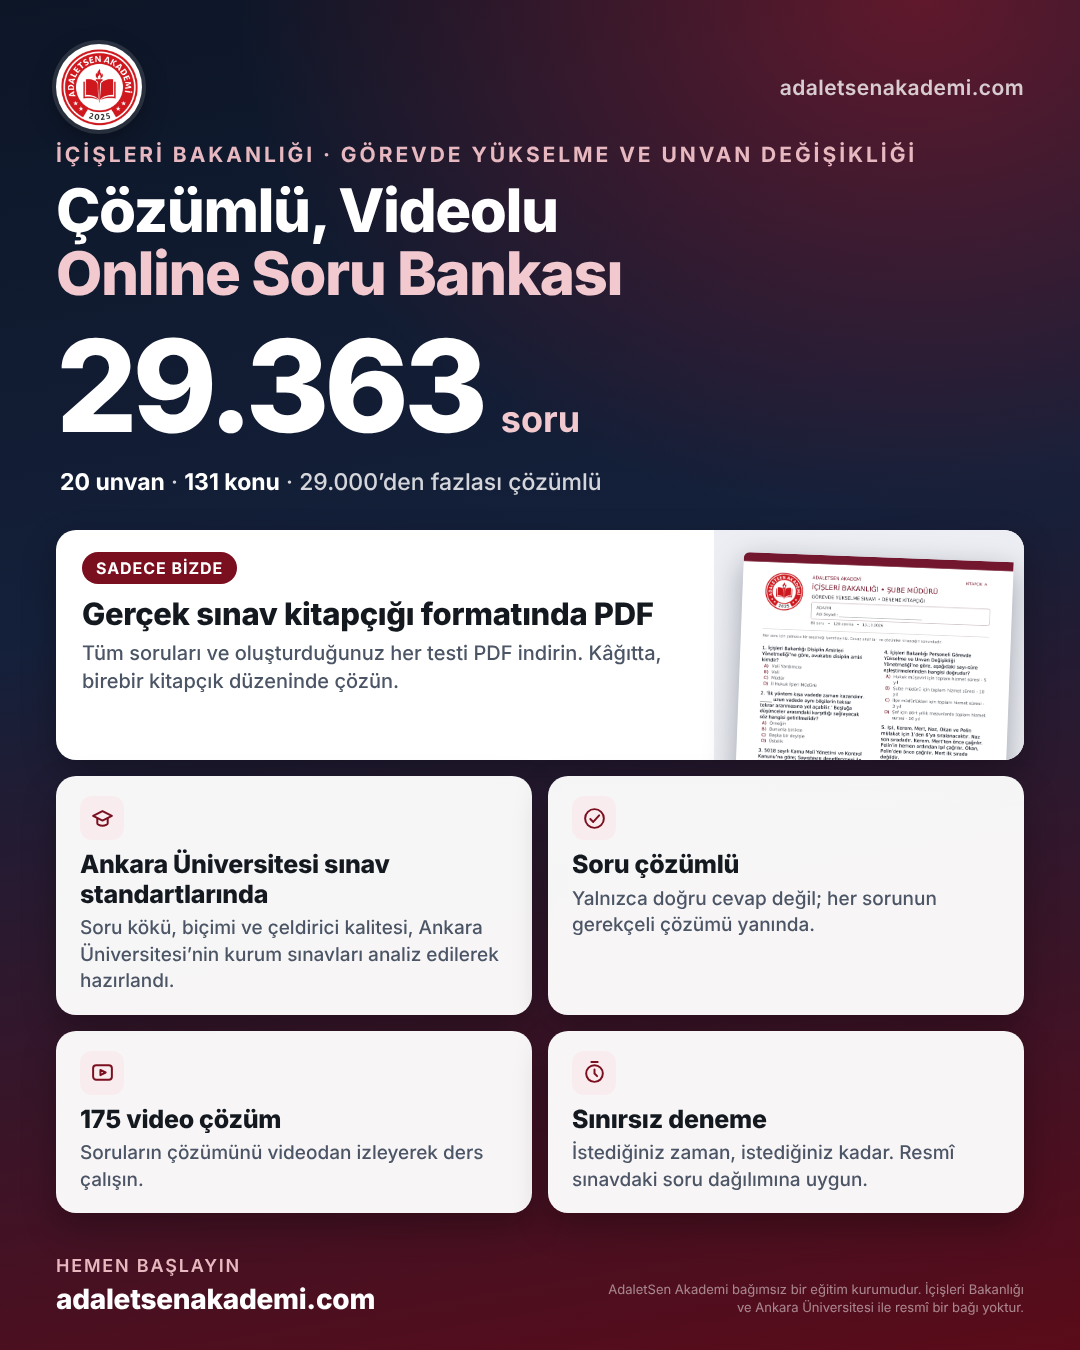
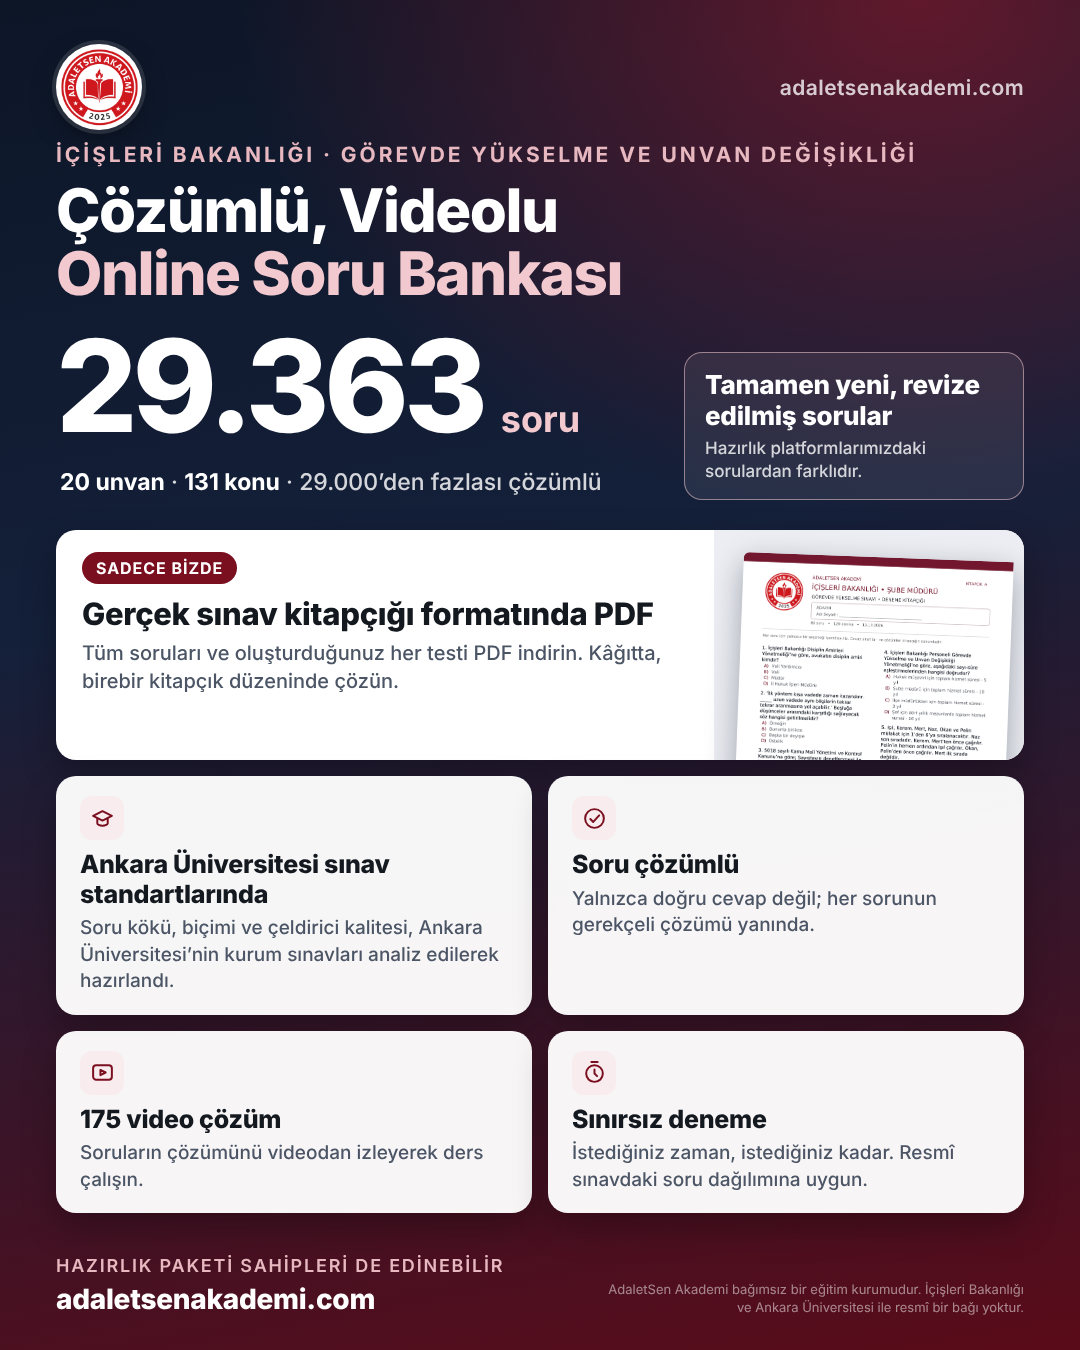
Kampanya görseli: yeni soru ve hazırlık paketi sahibi mesajı
Claude-Session: https://claude.ai/code/session_01Dii8fjHLuvXEyJZs8Lu8yp

Changed region(s): [[0.6417, 0.28, 0.9167, 0.3733], [0.0611, 0.9333, 0.4583, 0.9644]]

diff --git a/kampanya/gorsel.html b/kampanya/gorsel.html
@@ -16,6 +16,9 @@ h1 span{color:#f2c9cf}
 .big{position:absolute;left:56px;top:322px;display:flex;align-items:baseline;gap:18px}
 .big b{font-size:128px;line-height:1;font-weight:800;letter-spacing:-.04em}
 .big span{font-size:36px;font-weight:700;color:#f2c9cf}
+.newb{position:absolute;right:56px;top:352px;width:340px;padding:16px 20px;border-radius:18px;border:1.5px solid rgba(242,201,207,.55);background:rgba(255,255,255,.08);text-align:left}
+.newb b{display:block;font-size:26px;line-height:1.2;font-weight:800;letter-spacing:-.01em}
+.newb span{display:block;margin-top:6px;font-size:17px;line-height:1.35;color:rgba(255,255,255,.8);font-weight:500}
 .sub{position:absolute;left:60px;top:468px;font-size:23px;color:rgba(255,255,255,.82);font-weight:500}
 .sub b{color:#fff}
 .grid{position:absolute;left:56px;right:56px;top:530px;display:grid;grid-template-columns:1fr 1fr;gap:16px}
@@ -43,6 +46,7 @@ h1 span{color:#f2c9cf}
     <h1>Çözümlü, Videolu<br><span>Online Soru Bankası</span></h1>
   </div>
   <div class="big"><b>29.363</b><span>soru</span></div>
+  <div class="newb"><b>Tamamen yeni, revize edilmiş sorular</b><span>Hazırlık platformlarımızdaki sorulardan farklıdır.</span></div>
   <div class="sub"><b>20 unvan</b> · <b>131 konu</b> · 29.000’den fazlası çözümlü</div>
   <div class="grid">
     <div class="card wide">
@@ -63,7 +67,7 @@ h1 span{color:#f2c9cf}
       <h3>Sınırsız deneme</h3><p>İstediğiniz zaman, istediğiniz kadar. Resmî sınavdaki soru dağılımına uygun.</p></div>
   </div>
   <div class="foot">
-    <div class="cta"><small>Hemen başlayın</small>adaletsenakademi.com</div>
+    <div class="cta"><small>Hazırlık paketi sahipleri de edinebilir</small>adaletsenakademi.com</div>
     <div class="note">AdaletSen Akademi bağımsız bir eğitim kurumudur. İçişleri Bakanlığı ve Ankara Üniversitesi ile resmî bir bağı yoktur.</div>
   </div>
 </div>
